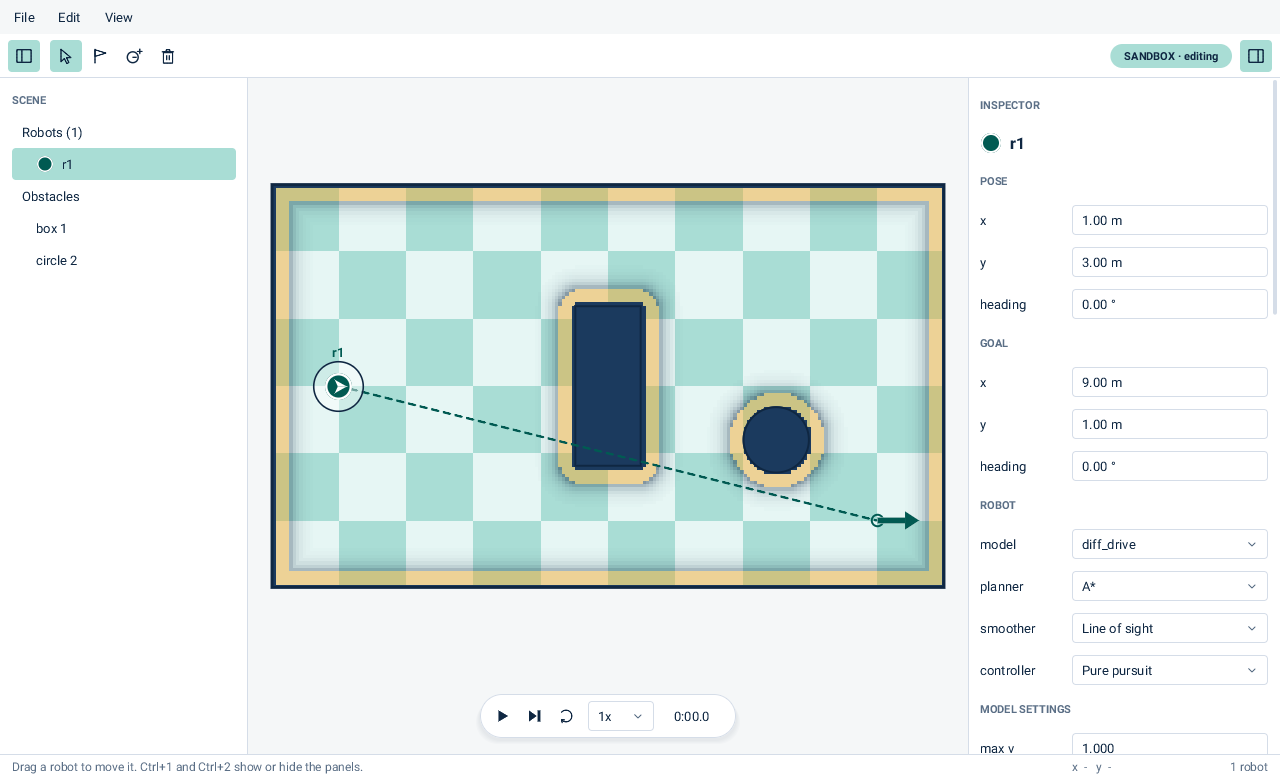
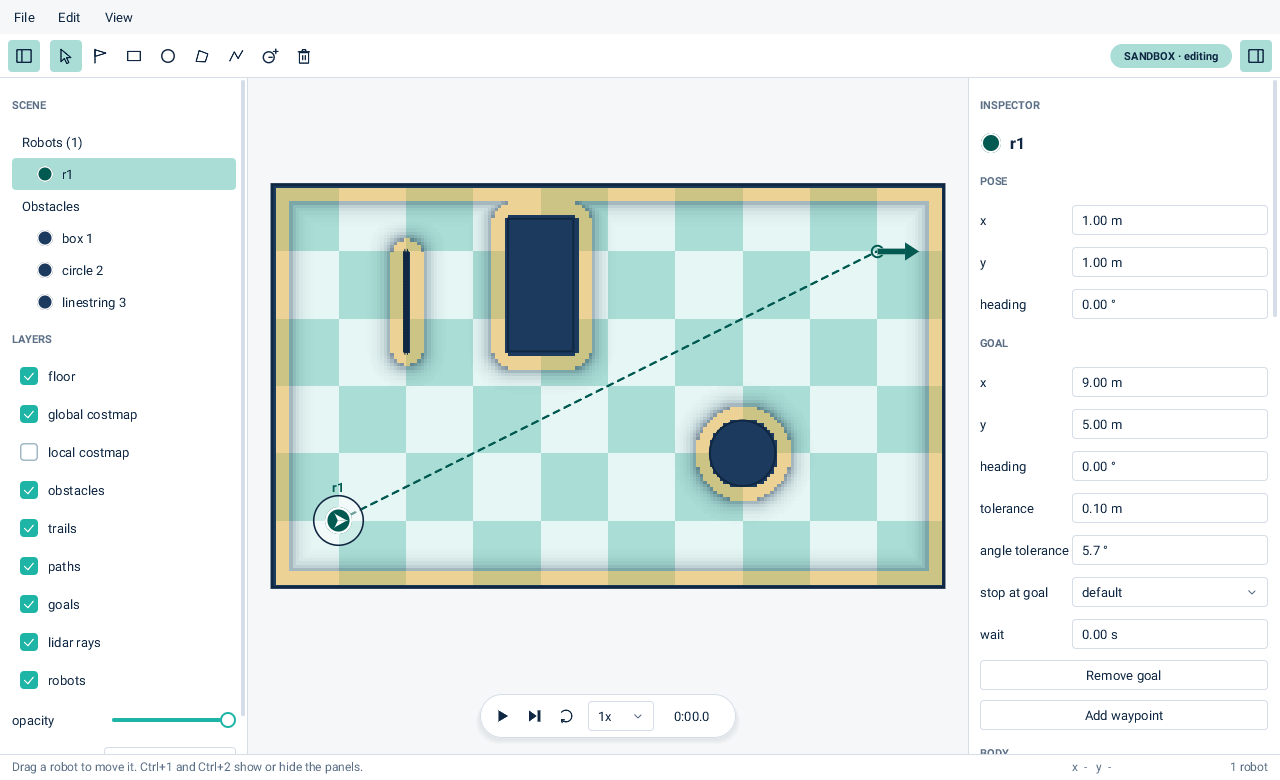
Describe building and saving a world in the README, and test that every edit survives a save

diff --git a/tests/test_edit.py b/tests/test_edit.py
@@ -492,3 +492,40 @@ def test_a_model_without_wheels_cannot_run_dead_reckoning(world, monkeypatch):
     with pytest.raises(WorldError, match="cannot run 'dead_reckoning'"):
         edit.set_estimator(sliding, "r1", "dead_reckoning")
     assert edit.set_estimator(sliding, "r1", "ground_truth").robots[0].estimator
+
+
+def test_a_world_built_with_every_edit_survives_save_and_load(world, tmp_path):
+    """Whatever the window can set comes back from the file it saves."""
+    w = edit.set_size(world, (12.0, 8.0))
+    w = edit.set_origin(w, (-1.0, -1.0))
+    w = edit.set_seed(edit.set_step(w, 0.025), 9)
+    w = edit.add_obstacle(w, "box", (2.0, 2.0, 0.5), (1.0, 0.5))
+    w = edit.add_obstacle(w, "circle", (8.0, 5.0, 0.0), (0.4,))
+    w = edit.add_outline(w, "polygon", [(1, 5), (2, 5), (1.5, 6.5)])
+    w = edit.add_outline(w, "linestring", [(9, 1), (10, 2)])
+    w = edit.set_robot_shape(w, "r1", "box", (0.5, 0.3))
+    w = edit.set_estimator(w, "r1", "dead_reckoning")
+    w = edit.set_control_pose(w, "r1", "truth")
+    w = edit.set_sensor(w, "r1", "encoders", {"noise": 0.02, "ticks_per_rev": 1024})
+    w = edit.set_sensor(
+        w, "r1", "front", {"type": "lidar", "beams": 60, "mount": [0.1, 0, 0]}
+    )
+    w = edit.set_sensor(w, None, "encoders", {"noise": 0.01})
+    w = edit.add_goal(w, "r1", (9.0, 1.0, 0.0))
+    w = edit.add_goal(w, "r1", (9.0, 5.0, 1.0))
+    w = edit.set_goal_options(w, 0, tolerance=(0.2, 0.1), stop=True, wait=1.5)
+    w = edit.set_costmap(w, "global", {"resolution": 0.1, "plugins": ["inflation"]})
+    w = edit.set_costmap(w, "local", {"window": 4.0, "plugins": ["obstacle"]})
+    path = tmp_path / "all.toml"
+    save_world(w, path)
+    back = load_world(path)
+    assert (back.size, back.origin, back.seed, back.dt) == (w.size, w.origin, 9, 0.025)
+    assert [o.shape for o in back.obstacles] == [o.shape for o in w.obstacles]
+    robot, again = w.robots[0], back.robots[0]
+    assert again.shape == robot.shape and again.estimator == "dead_reckoning"
+    assert again.control_pose == "truth" and again.sensors == robot.sensors
+    assert back.sensors == w.sensors
+    assert [(t.goal_tolerance, t.stop, t.wait) for t in back.tasks] == [
+        (t.goal_tolerance, t.stop, t.wait) for t in w.tasks
+    ]
+    assert back.costmap == w.costmap and back.local_costmap == w.local_costmap

diff --git a/README.md b/README.md
@@ -38,16 +38,18 @@ Working today:
   own scan rate, and a local costmap that the robot builds from their scans (see
   "Lidar and the local costmap" below);
 - a step length and a controller rate that you set apart (see "Time" below);
-- a native window, `demuvo`, to open a world, build one by adding robots and choosing
-  their planner, smoother and controller, set goals and run it (see "The window"
-  below), and a recorder that writes GIFs with no window;
+- a native window, `demuvo`, to build a world with the pointer and the forms, save it
+  to a file, open one, and run it (see "The window" below), and a recorder that
+  writes GIFs with no window;
 - a `Run` for scripts and benchmarks, and functions that build, edit and save a world
   (see "Use it from Python" below);
 - a result, printed with `--result` when the window closes: for each task, whether the
   robot reached it and when, the distance it drove, and the number of collisions.
 
 Not yet: the other kinematic models (car-like, forklift, mecanum, skid-steer), and a
-runner that compares controllers on the same worlds and seeds.
+runner that compares controllers on the same worlds and seeds. In the window, a
+polygon or line can be moved and deleted but not reshaped, a robot body is a disc or a
+box, and the lidar rays appear after the first step.
 
 ## Try it
 
@@ -156,29 +158,55 @@ installed and else from a copy that ships with demuvo.
 
 There are two modes:
 
-- **sandbox** (`demuvo` or `demuvo world.toml`): the world is yours. Add and delete
-  robots, drag them, pick a goal, choose each robot's model, planner, smoother and
-  controller and their settings, then run. A change is allowed only while no run is in
-  progress; Reset ends the run and unlocks editing. A change that cannot work is
-  refused in the status bar, in words that name the robot and the setting.
+- **sandbox** (`demuvo` or `demuvo world.toml`): the world is yours, and the window
+  can set everything the world file holds. `demuvo` alone opens a blank world with one
+  robot, `r1`, to build on. A change is allowed only while no run is in progress;
+  Reset ends the run and unlocks editing. A change that cannot work is refused in the
+  status bar, in words that name the robot and the setting.
 - **benchmark** (`demuvo world.toml --bench`): the world is fixed, so every run is the
   same. Reset repeats it. Layers and panels still work.
 
-The scene list is on the left, the world in the middle with a playback pill (play,
-step, reset, speed 0.25x to 8x, the clock), and the inspector on the right. The
-inspector shows the selected robot's pose, goal, parts and settings, and the layer
-switches: floor, global and local costmap, obstacles, trails, paths, goals, lidar rays
-and robots, with an opacity and a palette for the costmaps. Every robot has its own
-colour, and is drawn with its real footprint, a disc, a box or any polygon, and a white
-arrow for its heading.
+The scene list and the layer switches are on the left, the world is in the middle with
+a playback pill (play, step, reset, speed 0.25x to 8x, the clock), and the inspector is
+on the right. The layers are floor, global and local costmap, obstacles, trails, paths,
+goals, lidar rays and robots, with an opacity and a palette for the costmaps; a world
+with up to ten robots starts with the lidar rays on. Every robot has its own colour,
+and is drawn with its real footprint and a white arrow for its heading.
+
+**Building a world.** Pick a tool from the tool bar or by key, then use the pointer:
+
+- *Select*: click a robot or an obstacle; drag it to move it.
+- *Goal*: click the floor to set the selected robot's goal; Shift and click adds a
+  waypoint after the goals it has.
+- *Box* and *circle*: drag on the floor. A box is drawn from one corner to the other, a
+  circle from its centre outwards.
+- *Polygon* and *line*: click the corners. Click the first corner of a polygon, or press
+  Enter, to close it; Enter ends a line; Esc cancels.
+- *Add robot* and *delete*: the tool bar, Ctrl+N and Delete.
+
+The inspector shows what is selected, and every field applies as you leave it. With
+nothing selected it shows the world: its size, corner, seed and step, the sensors every
+robot starts with, and the global and local costmap. With an obstacle selected it shows
+the pose and size. With a robot selected it shows the pose, each goal with its
+tolerance, stop rule and wait, the body (disc or box), the model, planner, smoother and
+controller with their settings, where the controller gets its pose, and the sensors,
+encoders and any number of lidars. A number field selects its number when you click, so
+typing replaces it; Left, Right, Home, End, Delete and Ctrl+A work as in a text box.
+
+**Files.** The File menu has New world, Open, Save and Save as. Open and Save as ask for
+a path in a card over the window. The title bar shows the file and a star if there are
+unsaved changes; New, Open and Quit say so the first time and go ahead the second.
+Saving writes a new file: comments and the order of keys in the old file are not kept.
 
 | Key | Does |
 | --- | --- |
 | Space | play or pause |
 | S | step by one control period |
 | R | reset |
-| V, G | the select tool, the goal tool (click the floor to set the selected robot's goal) |
-| Ctrl+N, Delete | add a robot, delete the selected one |
+| V, G, B, C, P, L | the select, goal, box, circle, polygon and line tools |
+| Enter, Esc | end or cancel a polygon or line |
+| Ctrl+N, Delete | add a robot, delete the selected robot or obstacle |
+| Ctrl+O, Ctrl+S | open a world file, save the world |
 | Ctrl+1, Ctrl+2 | show or hide the scene list, the inspector |
 | Tab, Shift+Tab | move the keyboard focus |
 | Ctrl+Q | quit |
